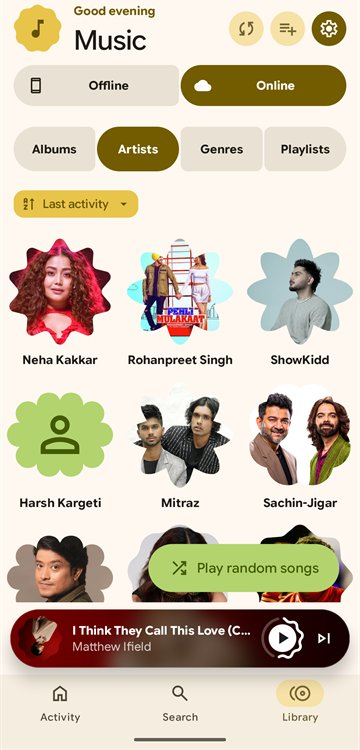
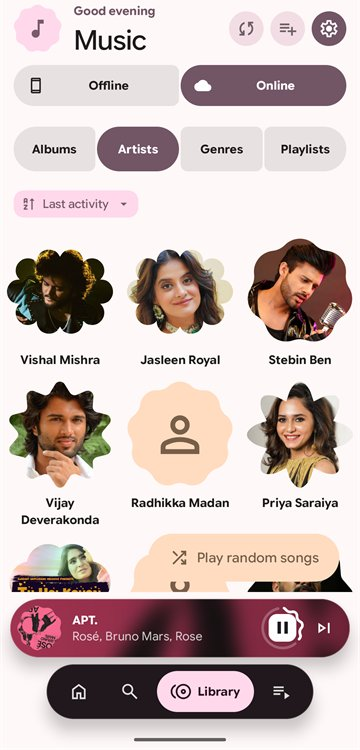
README: New screenshots with the floating navigation bar, and the lyrics

diff --git a/README.md b/README.md
@@ -18,12 +18,12 @@ redesigned player and a Material 3 Expressive look.
   <tr>
     <td align="center"><img src="docs/screenshots/home.jpg" width="240" alt="Home with trending songs"><br>Home</td>
     <td align="center"><img src="docs/screenshots/player.jpg" width="240" alt="Player"><br>Player</td>
-    <td align="center"><img src="docs/screenshots/search.jpg" width="240" alt="Search results"><br>Search</td>
+    <td align="center"><img src="docs/screenshots/lyrics.jpg" width="240" alt="Full screen lyrics, synchronized word by word"><br>Lyrics</td>
   </tr>
   <tr>
+    <td align="center"><img src="docs/screenshots/search.jpg" width="240" alt="Search results"><br>Search</td>
     <td align="center"><img src="docs/screenshots/artists.jpg" width="240" alt="Artists in Material shapes"><br>Artists</td>
     <td align="center"><img src="docs/screenshots/genres.jpg" width="240" alt="Genre tiles"><br>Genres</td>
-    <td></td>
   </tr>
 </table>
 
